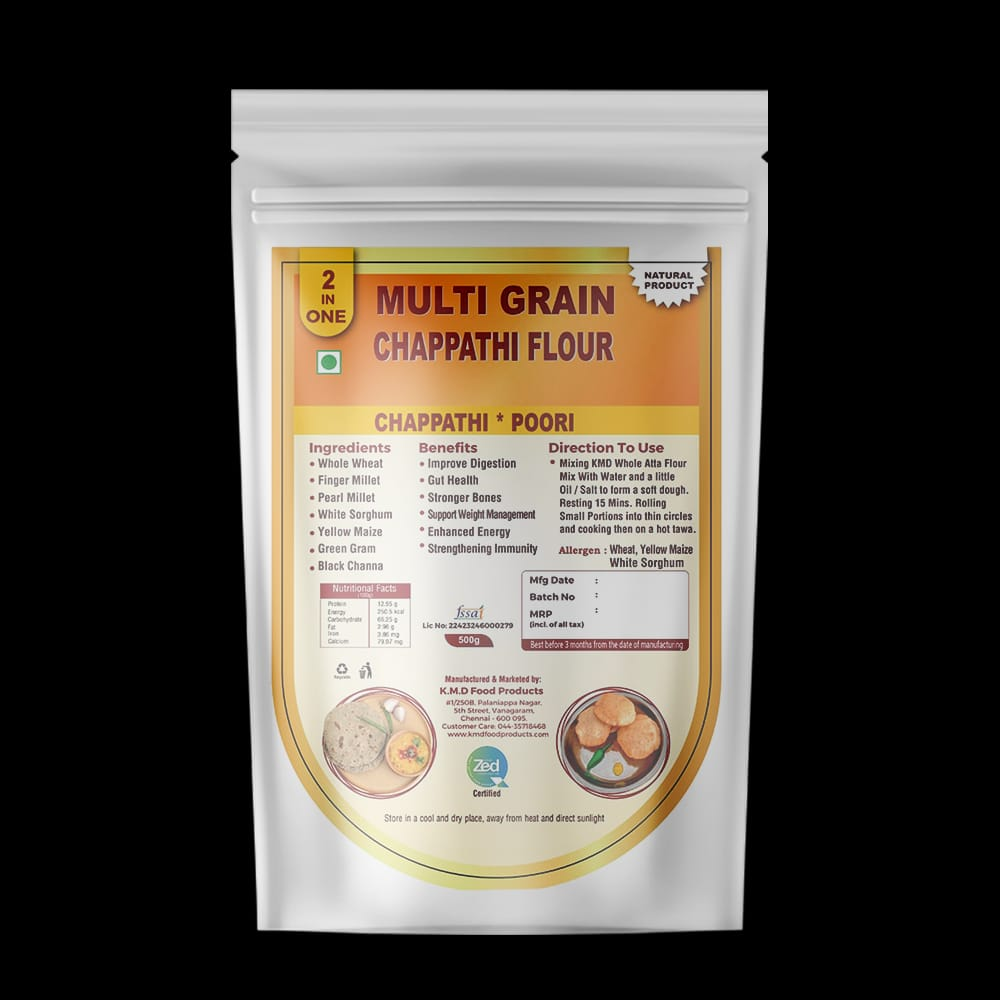
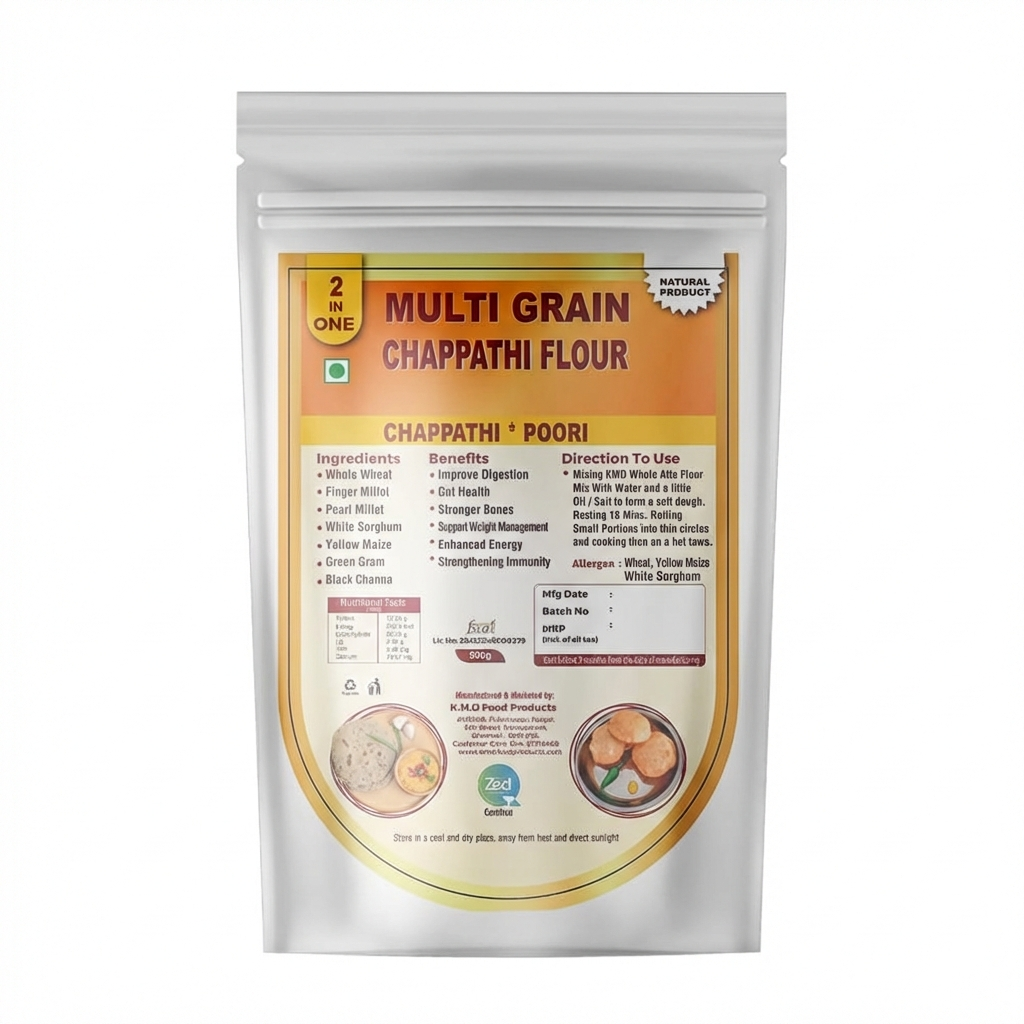
fix: replace image with white background version and revert css hack

diff --git a/src/data/products.js b/src/data/products.js
@@ -286,7 +286,6 @@ export const products = [
     rating: 4.9,
     shelfLife: "6 months",
     image: image15,
-    imageClass: "mix-blend-screen",
     icon: "🫓",
     description: "Multigrain atta is a nutritious flour made from a blend of several whole grains, like wheat, oats, millets (jowar, bajra), barley, and sometimes lentils (chana dal) or maize, offering more fiber, protein, vitamins, and minerals than single-grain flour, making softer rotis and improving digestion. It's a popular, wholesome choice for healthier Indian flatbreads (chapatis/rotis) and adds diverse nutrients for better metabolism and overall health.",
     benefits: ["Rich in fiber", "Protein rich", "Supports metabolism", "Makes softer rotis"],

diff --git a/src/components/ProductCard.jsx b/src/components/ProductCard.jsx
@@ -51,7 +51,7 @@ const ProductCard = ({ product }) => {
               <img
                 src={product.image}
                 alt={product.name}
-                className={`w-full h-full object-contain group-hover:scale-105 transition-transform duration-300 ${product.imageClass || ''}`}
+                className="w-full h-full object-contain group-hover:scale-105 transition-transform duration-300"
               />
             ) : (
               <div className={`text-6xl group-hover:scale-110 transition-transform duration-300 ${colorClass.iconBg} p-6 rounded-2xl`}>
